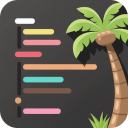
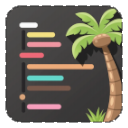
Flush closed document

diff --git a/assets/js/page-editor.js b/assets/js/page-editor.js
@@ -397,6 +397,19 @@ function togglePreview( forceState = 0 )
     }
 }
 
+function removeDocumentFromStack( edName )
+{
+    let out = {};
+    for( let a in editorDocuments )
+    {
+        if( a != edName )
+        {
+            out[ a ] = editorDocuments[ a ];
+        }
+    }
+    editorDocuments = out;
+}
+
 let edName = 1;
 function newEditor( filename = false, path = false )
 {
@@ -456,6 +469,7 @@ function newEditor( filename = false, path = false )
         }
         
         p.removeChild( tab );
+        removeDocumentFromStack( edName );
         editor.destroy();
         if( activate ) 
         {